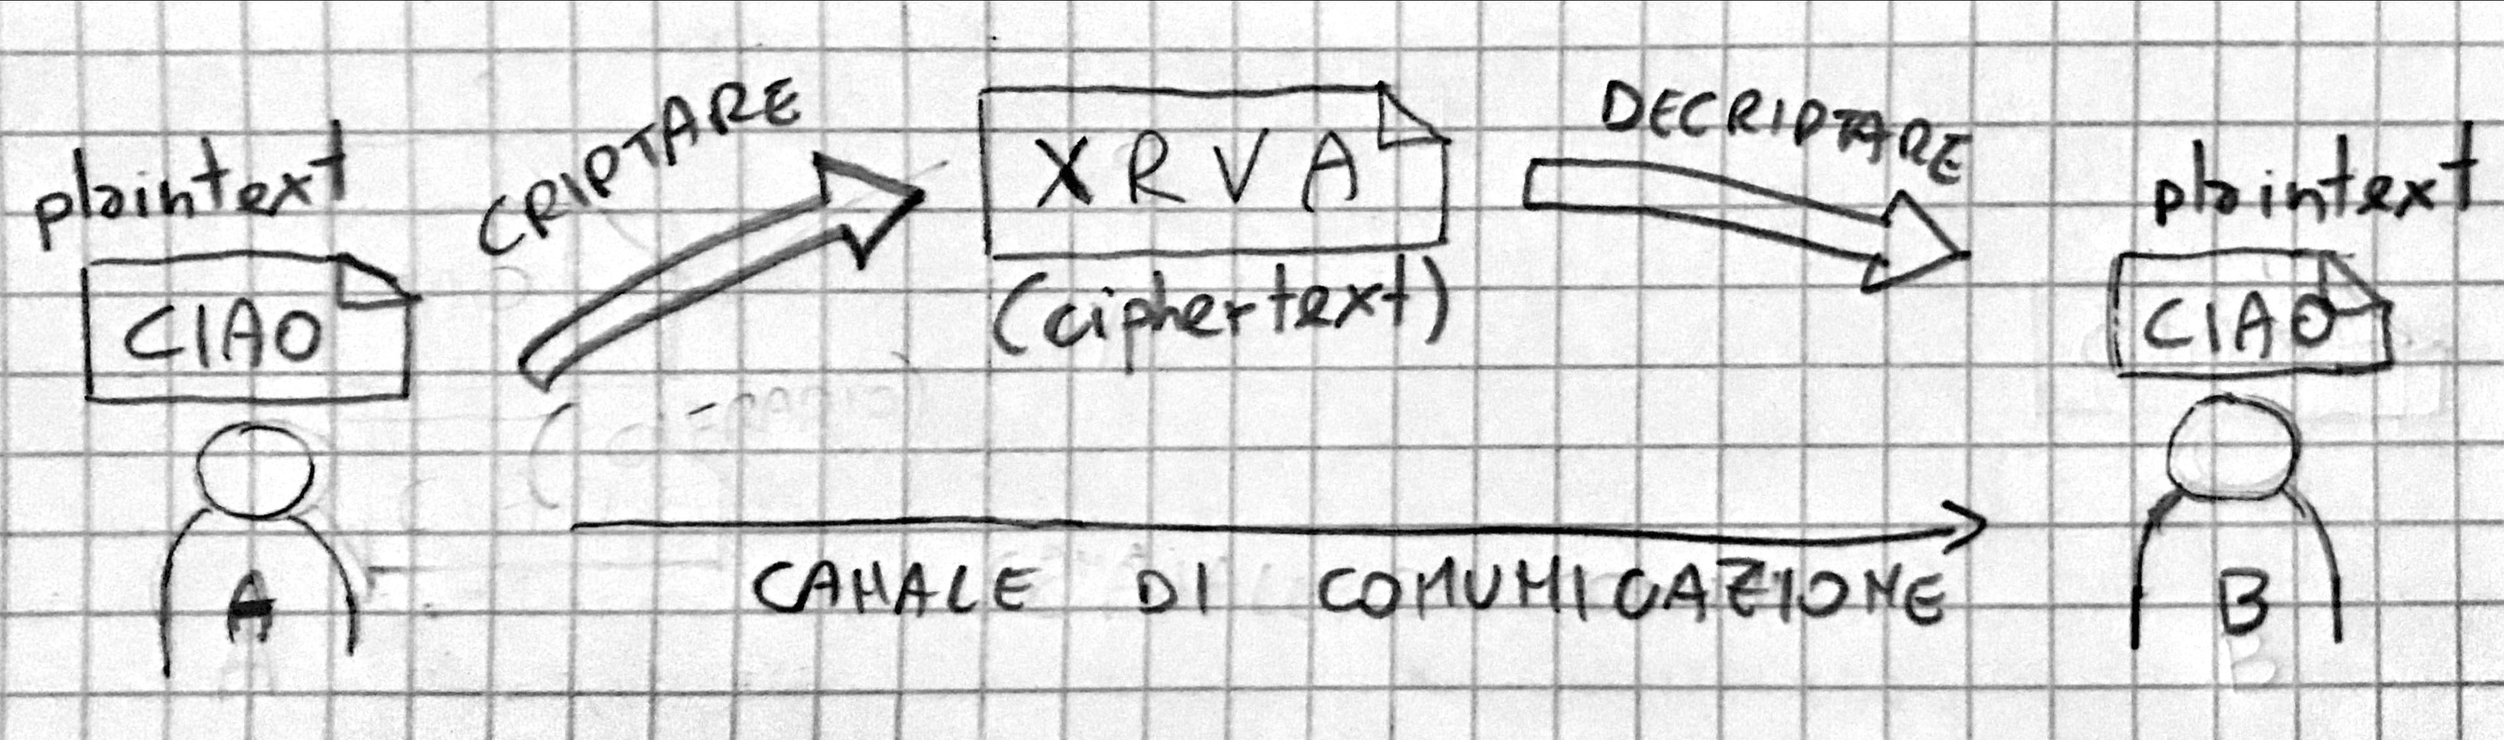
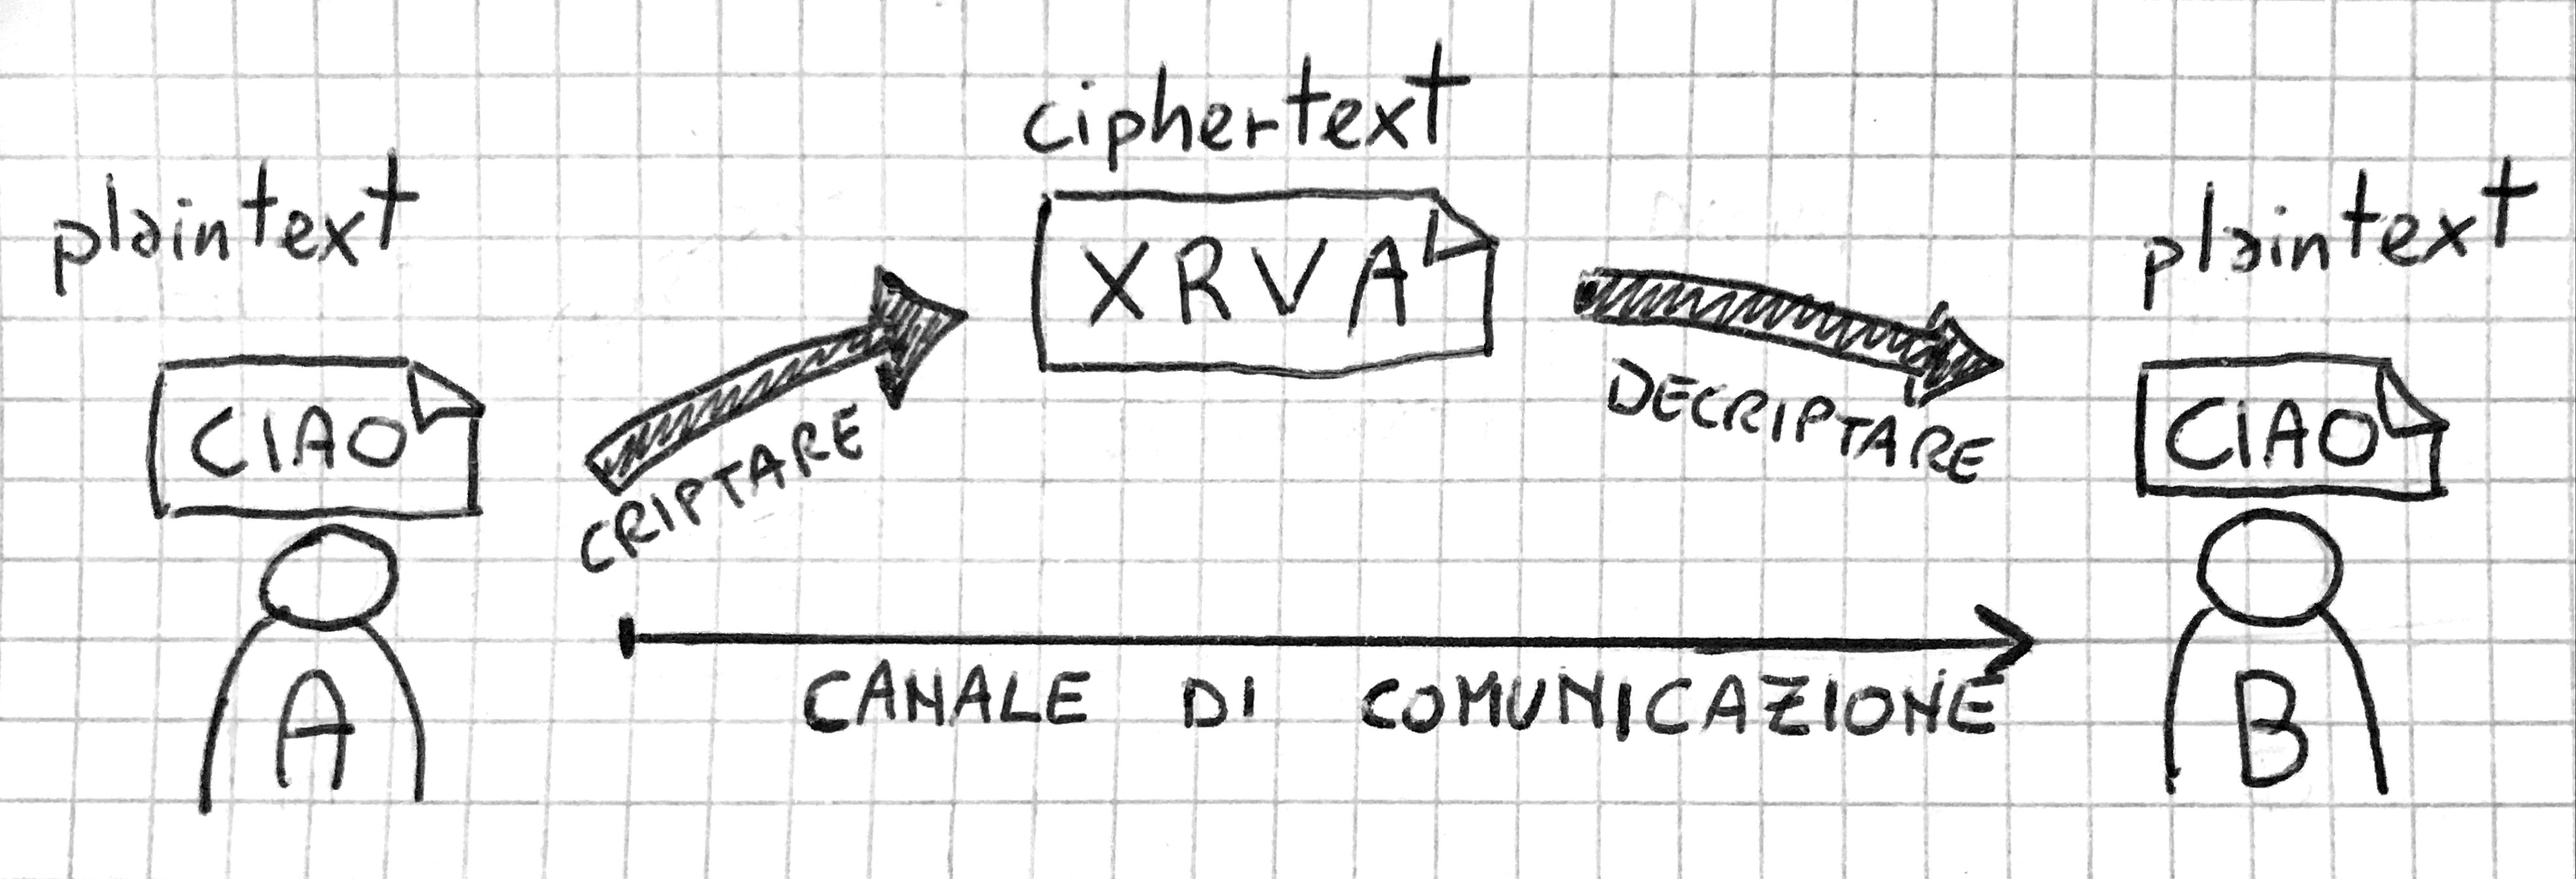
migliorata introduzione

diff --git a/Books/LibroLiceo/crittografia.md b/Books/LibroLiceo/crittografia.md
@@ -1,11 +1,17 @@
 # Introduzione 
-La **crittografia** o criptografia (dal greco: scrittura nascosta) è la tecnica che consente di rendere un messaggio comprensibile solo al destinatario sottoponendo il testo del messaggio a trasformazioni che lo rendano <u>incomprensibile</u>. 
+La **crittografia** o criptografia (dal greco: scrittura nascosta) è la tecnica che consente di rendere un messaggio comprensibile solo al destinatario sottoponendo il testo a trasformazioni che lo rendano <u>incomprensibile</u> ad altri soggetti. 
 
-> **Testo in chiaro =** in inglese *plaintext*, rappresenta in crittografia il testo originale da trasmettere.
+> **Testo in chiaro =** in inglese *plaintext (/ˈpleɪnˌtɛkst/)*, rappresenta in crittografia il testo originale da trasmettere.
 
-> **Testo cifrato =** in inglese *ciphertext*, rappresenta in crittografia il testo originale trasformato e quindi incomprensibile.
+> **Testo cifrato =** in inglese *ciphertext (*/ˈsaɪ fərˌtɛkst/*)*, rappresenta in crittografia il testo originale trasformato e quindi incomprensibile.
 
-> **Criptare (cifrare, crittografare, crittare) =** in inglese *to encrypt*, trasformare il *plaintext* in *ciphertext*
+> **Criptare (cifrare, crittografare, crittare) =** in inglese *to encrypt (/ɛnˈkrɪpt/)*, trasformare il *plaintext* in *ciphertext*
+
+> **Decriptare (decifrare, decriptare) =** in inglese *to decrypt*, ritrasformare il testo cifrato in testo in chiaro 
+
+> **Cifrario =** algoritmo utilizzato per eseguire operazioni di cifratura e decifratura del messaggio.
+
+> **Chiave segreta =** in inglese *secret key (/ˈsikrɪt ki/)*, è l'informazione segreta condivisa tra mittente e destinatario necessaria alle operazioni di cifratura e decifratura.
 
 $$
 Criptare \ne Codificare
@@ -13,10 +19,6 @@ $$
 
 > **Codificare =** processo di conversione di un messaggio in un altro formato.  La codifica di un messaggio può avere svariati scopi (invio dati, salvataggio, ecc.), ma non quello di mantenere la riservatezza del messaggio originale.
 > La decodifica di un qualsiasi contenuto non richiede mai la conoscenza di una chiave, ma solo la conoscenza dell’algoritmo, che è tipicamente (e volutamente) noto. Un sistema di codifica usato di frequente è <u>Base64</u>. 
-
-> **Decriptare (decifrare, decriptare) =** in inglese *to decrypt*, ritrasformare il testo cifrato in testo in chiaro 
-
-> **Cifrario =** algoritmo utilizzato per eseguire operazioni di cifratura e decifratura del messaggio.
 
 
 

diff --git a/Books/LibroLiceo/intro.md b/Books/LibroLiceo/intro.md
@@ -1,0 +1,5 @@
+«Puoi cercare di cambiare la testa alla gente, ma perderai solo il tuo tempo. Quello che puoi fare è cambiare gli strumenti che usa. Fallo e cambierai la civiltà» ([Stewart Brand](https://it.wikipedia.org/wiki/Stewart_Brand))
+
+
+
+"Stay hungry. Stay foolish" (Stewart Brand - *The Whole Earth Catalog Epilog* - 1974)  (Steve Jobs 2005)
